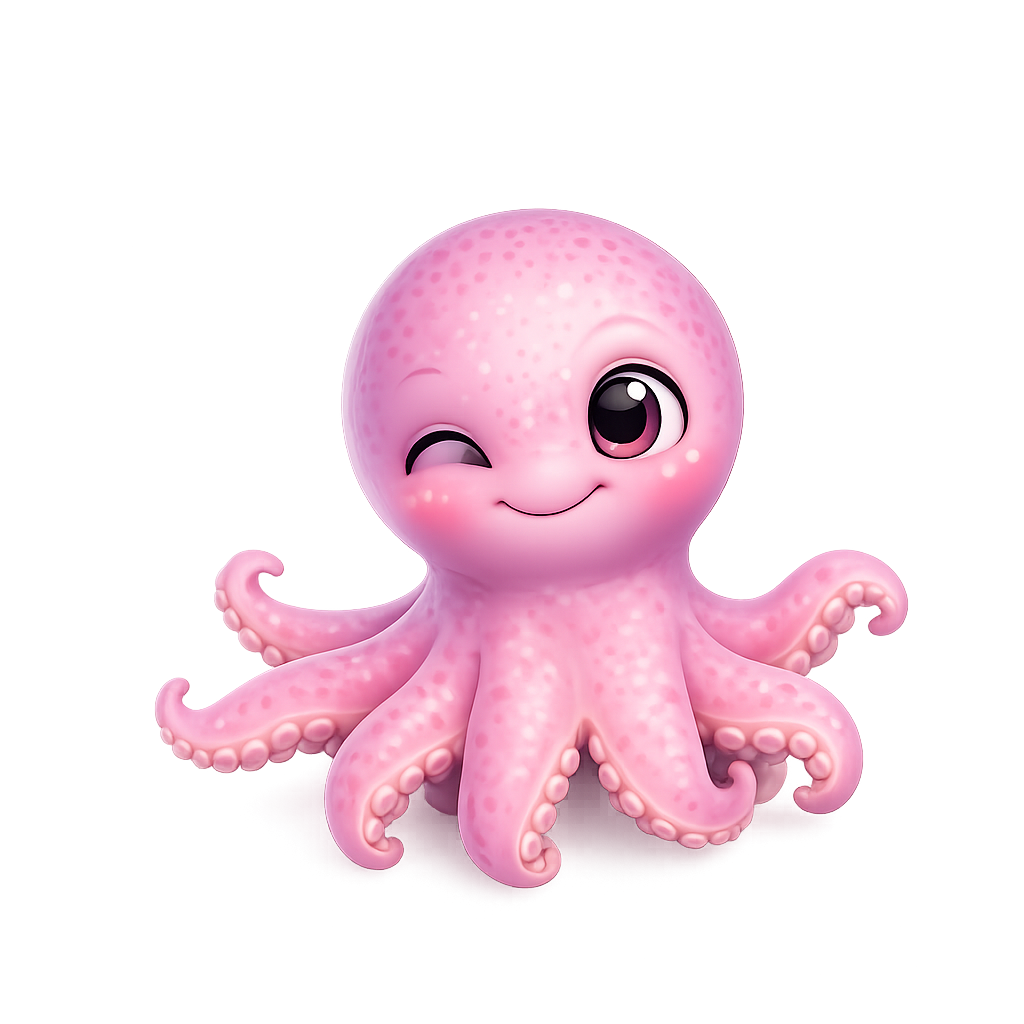
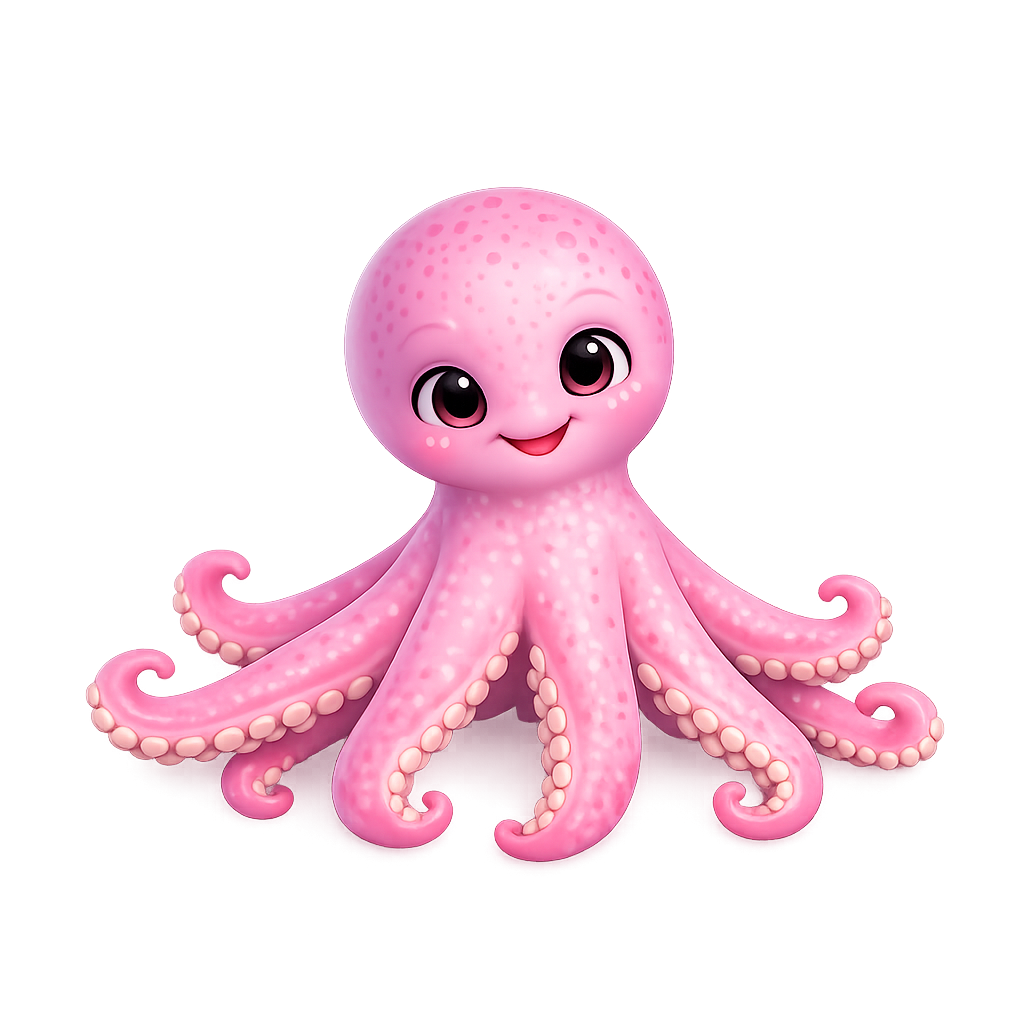
Add octopus as 3rd animal - egg type, purple/magenta, unlocks after dolphin grown + video watched

Changed region(s): [[0.0625, 0.1562, 0.9375, 0.875]]

diff --git a/src/pages/KidsWorld.tsx b/src/pages/KidsWorld.tsx
@@ -10,7 +10,7 @@ interface AnimalStage { name: string; nameZh: string; min: number; img: string; 
 interface Animal {
   id: string; name: string; nameZh: string; emoji: string;
   stages: AnimalStage[];
-  unlockCondition: "default" | "turtle_grown_video_watched";
+  unlockCondition: "default" | "turtle_grown_video_watched" | "dolphin_grown_video_watched";
   collectionBg: string; collectionBorder: string; collectionGlow: string;
   video: string | null; isEggType: boolean;
   accentColor: string; accentGlow: string;
@@ -60,9 +60,30 @@ const ANIMALS: Animal[] = [
       { main: "Look how you've grown!", zh: "你長大了！",           sub: "Now a Young Dolphin!",        subZh: "現在是年輕海豚了！" },
       { main: "Fully grown! Amazing!",  zh: "完全長大了！太棒了！", sub: "You raised a Grown Dolphin!", subZh: "你養大了一隻成年海豚！" },
     ],
-    unlockOverlay: { emoji: "🐬", title: "New Friend!", titleZh: "新朋友來了！", eggLine: "A Dolphin Egg appeared!", eggLineZh: "出現了一顆海豚蛋！", feedLine: "Feed it treats to help it grow!", feedLineZh: "餵牠餅乾讓牠長大！", btnText: "So cool! · 太酷了！🎉", glowColor: "rgba(100,200,255,0.6)", borderColor: "rgba(100,200,255,0.7)", bgGradient: "linear-gradient(135deg,#003d7a,#0077b6,#00b4d8)" },
+    unlockOverlay: { emoji: "🐬", title: "New Friend!", titleZh: "新朋友來了！", eggLine: "A Dolphin appeared!", eggLineZh: "海豚出現了！", feedLine: "Feed it treats to help it grow!", feedLineZh: "餵牠餅乾讓牠長大！", btnText: "So cool! · 太酷了！🎉", glowColor: "rgba(100,200,255,0.6)", borderColor: "rgba(100,200,255,0.7)", bgGradient: "linear-gradient(135deg,#003d7a,#0077b6,#00b4d8)" },
   },
   // ── ADD NEW ANIMALS HERE — one object = one new animal ────────────────────
+  {
+    id: "octopus", name: "Octopus", nameZh: "章魚", emoji: "🐙",
+    stages: [
+      { name: "Egg",   nameZh: "章魚蛋",   min: 0,  img: "/creatures/octopus-egg.png" },
+      { name: "Baby",  nameZh: "小章魚",   min: 15, img: "/creatures/octopus-egg-baby.png" },
+      { name: "Young", nameZh: "年輕章魚", min: 30, img: "/creatures/octopus-young.png" },
+      { name: "Grown", nameZh: "成年章魚", min: 45, img: "/creatures/octopus-grown.png" },
+    ],
+    unlockCondition: "dolphin_grown_video_watched",
+    collectionBg: "#581c87", collectionBorder: "rgba(216,180,254,0.7)", collectionGlow: "rgba(168,85,247,0.5)",
+    video: "/video-adult-octopus.mp4", isEggType: true,
+    accentColor: "#e879f9", accentGlow: "rgba(232,121,249,0.5)",
+    btnColor: "#a855f7", btnGlow: "rgba(168,85,247,0.5)", btn3Color: "#e879f9", btn3Glow: "rgba(232,121,249,0.5)",
+    feedLabel: "octopus", feedLabelZh: "章魚",
+    levelUpMessages: [
+      { main: "Hello little one!",       zh: "你好小寶貝！",         sub: "A Baby Octopus appeared!",       subZh: "小章魚出現了！" },
+      { main: "Growing so fast!",        zh: "長得好快！",           sub: "Now a Young Octopus!",           subZh: "現在是年輕章魚了！" },
+      { main: "Magnificent! Amazing!",   zh: "太壯觀了！太棒了！",   sub: "You raised a Grown Octopus!",    subZh: "你養大了一隻成年章魚！" },
+    ],
+    unlockOverlay: { emoji: "🐙", title: "New Friend!", titleZh: "新朋友來了！", eggLine: "An Octopus Egg appeared!", eggLineZh: "出現了一顆章魚蛋！", feedLine: "Feed it treats to help it grow!", feedLineZh: "餵牠餅乾讓牠長大！", btnText: "So cool! · 太酷了！🎉", glowColor: "rgba(168,85,247,0.6)", borderColor: "rgba(216,180,254,0.7)", bgGradient: "linear-gradient(135deg,#2e1065,#581c87,#7e22ce)" },
+  },
 ];
 // locked placeholder slots (fills collection grid to 6 total)
 const LOCKED_SLOTS = [
@@ -483,7 +504,7 @@ const EarnButtons = ({ navigate, code, studentName, activeAnimal }: { navigate: 
 );
 
 // ── COLLECTION ────────────────────────────────────────────────────────────────
-const OceanCollection = ({ fedTreatsMap, videoWatched, unlockSeenMap, onAnimalClick }: { fedTreatsMap: Record<string,number>; videoWatched: boolean; unlockSeenMap: Record<string,boolean>; onAnimalClick: (id: string) => void }) => {
+const OceanCollection = ({ fedTreatsMap, videoWatched, videoWatchedMap, unlockSeenMap, onAnimalClick }: { fedTreatsMap: Record<string,number>; videoWatched: boolean; videoWatchedMap: Record<string,boolean>; unlockSeenMap: Record<string,boolean>; onAnimalClick: (id: string) => void }) => {
   const lockedCount = 6 - ANIMALS.length;
   return (
     <div style={{ display: "grid", gridTemplateColumns: "repeat(3,1fr)", gap: "0.75rem" }}>
@@ -494,7 +515,11 @@ const OceanCollection = ({ fedTreatsMap, videoWatched, unlockSeenMap, onAnimalCl
         const isUnlocked = (() => {
           if (animal.unlockCondition === "default") return true;
           if (animal.unlockCondition === "turtle_grown_video_watched") {
-            return getAnimalStageIdx(ANIMALS[0], fedTreatsMap["turtle"] ?? 0) === 3 && videoWatched;
+            return getAnimalStageIdx(ANIMALS[0], fedTreatsMap["turtle"] ?? 0) === 3 && (videoWatchedMap["turtle"] ?? false);
+          }
+          if (animal.unlockCondition === "dolphin_grown_video_watched") {
+            const dolphin = ANIMALS.find(a => a.id === "dolphin");
+            return dolphin ? getAnimalStageIdx(dolphin, fedTreatsMap["dolphin"] ?? 0) === 3 && (videoWatchedMap["dolphin"] ?? false) && (unlockSeenMap["dolphin"] ?? false) : false;
           }
           return false;
         })();
@@ -587,7 +612,7 @@ const KidsWorld = () => {
   }
 
   const [jarTreats, setJarTreats] = useState(() => isMaster ? 99 : parseInt(localStorage.getItem(`mpe_jar_${code}_${studentName}`) || "0"));
-  const [fedTreatsState, setFedTreatsState] = useState<Record<string,number>>(() => isMaster ? { turtle: 45 } : { turtle: parseInt(localStorage.getItem(`mpe_fed_${code}_${studentName}`) || "0") });
+  const [fedTreatsState, setFedTreatsState] = useState<Record<string,number>>(() => isMaster ? { turtle: 45, dolphin: 45 } : { turtle: parseInt(localStorage.getItem(`mpe_fed_${code}_${studentName}`) || "0") });
   const [treats, setTreats] = useState(0);
   const [loading, setLoading] = useState(!isMaster);
   const [hearts, setHearts] = useState<{ id: number; x: number; y: number; delay: number }[]>([]);
@@ -605,6 +630,7 @@ const KidsWorld = () => {
   const [showVideo, setShowVideo] = useState(false);
   const [videoButtonSeen, setVideoButtonSeen] = useState(() => localStorage.getItem(`mpe_videoseen_${code}_${studentName}`) === "1");
   const [videoWatchedMap, setVideoWatchedMap] = useState<Record<string,boolean>>(() => {
+    if (isMaster) return { turtle: true };
     const map: Record<string,boolean> = {};
     ANIMALS.forEach(a => {
       const key = a.id === "turtle" ? `mpe_videowatched_${code}_${studentName}` : `mpe_videowatched_${a.id}_${code}_${studentName}`;
@@ -619,7 +645,7 @@ const KidsWorld = () => {
 
   const [videoFadingOut, setVideoFadingOut] = useState(false);
   const [showLookBelow, setShowLookBelow] = useState(false);
-  const closeVideo = () => { setVideoFadingOut(true); setTimeout(() => { setShowVideo(false); setVideoFadingOut(false); if(!unlockSeenMap["dolphin"]) setTimeout(() => setShowLookBelow(true), 300); }, 400); };
+  const closeVideo = () => { setVideoFadingOut(true); setTimeout(() => { setShowVideo(false); setVideoFadingOut(false); if(!unlockSeenMap["dolphin"] || !unlockSeenMap["octopus"]) setTimeout(() => setShowLookBelow(true), 300); }, 400); };
   const [musicOn, setMusicOn] = useState(() => localStorage.getItem("mpe_music") !== "off");
   const [sfxOn, setSfxOn] = useState(() => localStorage.getItem("mpe_sfx") !== "off");
   const [volume, setVolume] = useState(() => parseFloat(localStorage.getItem("mpe_volume") || "0.25"));
@@ -635,9 +661,11 @@ const KidsWorld = () => {
   const ctxRef = useRef<AudioContext | null>(null);
   const prevStageRef = useRef(-1);
   // ── FIX: load previously fired level-ups from localStorage on mount ──
-  const levelUpFiredRef = useRef<Set<number>>(new Set(
-    JSON.parse(localStorage.getItem(`mpe_levelup_${code}_${studentName}`) || "[]")
-  ));
+  const levelUpFiredRef = useRef<Record<string, Set<number>>>(
+    Object.fromEntries(ANIMALS.map(a => [a.id, new Set<number>(
+      JSON.parse(localStorage.getItem(`mpe_levelup_${a.id}_${code}_${studentName}`) || "[]")
+    )]))
+  );
 
   const displayName = (() => {
     if (isMaster) return "Teacher";
@@ -721,9 +749,11 @@ const KidsWorld = () => {
 
   // Level up — fire ONCE per stage transition, never repeat (persisted in localStorage)
   useEffect(() => {
-    if (stageIdx > 0 && stageIdx !== prevStageRef.current && !levelUpFiredRef.current.has(stageIdx)) {
-      levelUpFiredRef.current.add(stageIdx);
-      localStorage.setItem(`mpe_levelup_${code}_${studentName}`, JSON.stringify([...levelUpFiredRef.current]));
+    const animalFired = levelUpFiredRef.current[activeAnimalId] ?? new Set<number>();
+    if (stageIdx > 0 && stageIdx !== prevStageRef.current && !animalFired.has(stageIdx)) {
+      animalFired.add(stageIdx);
+      levelUpFiredRef.current[activeAnimalId] = animalFired;
+      localStorage.setItem(`mpe_levelup_${activeAnimalId}_${code}_${studentName}`, JSON.stringify([...animalFired]));
       setLevelUpStage({ animal: activeAnimal, stageIdx });
       if (!tadaRef.current) tadaRef.current = new Audio("/tada-music.mp3");
       tadaRef.current.currentTime = 0;
@@ -876,7 +906,7 @@ const KidsWorld = () => {
 
       {/* LOOK BELOW POPUP */}
       {showLookBelow && (
-        <div onClick={() => setShowLookBelow(false)} style={{ position: "fixed", inset: 0, zIndex: 600, background: "rgba(0,0,0,0.7)", display: "flex", alignItems: "center", justifyContent: "center", padding: "1rem", animation: "popIn 0.35s ease-out" }}>
+        <div style={{ position: "fixed", inset: 0, zIndex: 600, background: "rgba(0,0,0,0.7)", display: "flex", alignItems: "center", justifyContent: "center", padding: "1rem", animation: "popIn 0.35s ease-out" }}>
           <div onClick={e => e.stopPropagation()} style={{ background: "linear-gradient(135deg,#0c3460,#0077b6)", borderRadius: "2.5rem", padding: "2.5rem 2rem", textAlign: "center", maxWidth: 340, width: "100%", border: "3px solid #fbbf24", boxShadow: "0 0 60px rgba(251,191,36,0.6), 0 20px 60px rgba(0,0,0,0.5)", animation: "popIn 0.4s ease-out" }}>
             <div style={{ fontSize: "3rem", marginBottom: "0.5rem", animation: "bobAnim 1s ease-in-out infinite" }}>👇</div>
             <div style={{ fontFamily: "'Fredoka One',cursive", fontSize: "2rem", color: "#fbbf24", textShadow: "0 0 20px rgba(251,191,36,0.9)", marginBottom: "0.25rem" }}>Look below!</div>
@@ -902,8 +932,7 @@ const KidsWorld = () => {
           setActiveAnimalId(a.id);
         };
         return (
-          <div style={{ position: "fixed", inset: 0, zIndex: 600, background: "rgba(0,10,40,0.92)", display: "flex", alignItems: "center", justifyContent: "center", padding: "1rem", animation: "popIn 0.4s ease-out" }}
-            onClick={dismiss}>
+          <div style={{ position: "fixed", inset: 0, zIndex: 600, background: "rgba(0,10,40,0.92)", display: "flex", alignItems: "center", justifyContent: "center", padding: "1rem", animation: "popIn 0.4s ease-out" }}>
             <div onClick={e => e.stopPropagation()} style={{ position: "relative", zIndex: 10, textAlign: "center", background: ov.bgGradient, borderRadius: "2.5rem", padding: "2.5rem 2rem", maxWidth: 360, width: "100%", border: `3px solid ${ov.borderColor}`, boxShadow: `0 0 80px ${ov.glowColor}, 0 20px 60px rgba(0,0,0,0.5)` }}>
               <div style={{ position: "absolute", inset: -8, borderRadius: "2.8rem", border: `2px solid ${ov.borderColor}`, animation: "goldPulse 1.5s ease-in-out infinite", pointerEvents: "none" }} />
               <div style={{ fontFamily: "'Fredoka One',cursive", fontSize: "2.8rem", marginBottom: "0.25rem" }}>{ov.emoji}</div>
@@ -938,7 +967,7 @@ const KidsWorld = () => {
             </div>
           )}
           <button onClick={() => { setShowVideo(true); if(!videoButtonSeen){ setVideoButtonSeen(true); localStorage.setItem(`mpe_videoseen_${code}_${studentName}`,"1"); }}} style={{ pointerEvents: "all", padding: "1rem 2.5rem", background: "linear-gradient(135deg, #00b4d8, #0077b6)", border: "3px solid rgba(255,255,0,0.9)", borderRadius: "999px", color: "white", fontFamily: "'Fredoka One',cursive", fontSize: "1.5rem", cursor: "pointer", animation: "watchPulse 1.2s ease-in-out infinite", display: "inline-block" }}>
-            🎬 Watch {petName || "Turtley"} Swim! · 看{petName || "Turtley"}游泳！
+            🎬 Watch {petName || activeAnimal.name}! · 看{petName || activeAnimal.nameZh}！
           </button>
         </div>
       )}
@@ -1150,7 +1179,7 @@ const KidsWorld = () => {
               Add to Jar +1
             </button>
             <button onClick={handleFeed} disabled={jarTreats <= 0} style={{ flex: 1, padding: "0.9rem", background: jarTreats > 0 ? "linear-gradient(135deg,#f59e0b,#ef4444)" : "rgba(255,255,255,0.1)", border: "none", borderRadius: "999px", color: "white", fontFamily: "'Fredoka One',cursive", fontSize: "1rem", cursor: jarTreats > 0 ? "pointer" : "not-allowed", boxShadow: jarTreats > 0 ? "0 6px 20px rgba(245,158,11,0.5)" : "none" }}>
-              Feed Turtle
+              Feed {activeAnimal.name}
             </button>
           </div>
         )}
@@ -1170,23 +1199,30 @@ const KidsWorld = () => {
             Ocean Collection 🌊<br />
             <span style={{ fontFamily: "Nunito,sans-serif", fontSize: "1.05rem", opacity: 0.8 }}>海洋收藏！收集所有生物！</span>
           </div>
-          {/* Wiggle arrow pointing at turtle card when videoWatched */}
-          {stageIdx === 3 && videoWatched && !unlockSeenMap["dolphin"] && (
-            <div style={{ display: "flex", justifyContent: "center", marginBottom: "0.75rem" }}>
-              <div style={{ display: "flex", flexDirection: "column", alignItems: "center" }}>
-                <div style={{ fontFamily: "'Fredoka One',cursive", fontSize: "1rem", color: "#fbbf24", textAlign: "center", marginBottom: "0.3rem", animation: "shimmer 1s ease-in-out infinite", textShadow: "0 0 16px rgba(251,191,36,0.9)" }}>
-                  ✨ You unlocked a new friend!<br/>
-                  <span style={{ fontFamily: "Noto Sans TC, sans-serif", fontSize: "0.9rem" }}>你解鎖了新朋友！</span>
-                </div>
-                <div style={{ animation: "arrowWiggle 0.7s ease-in-out infinite" }}>
-                  <svg width="40" height="36" viewBox="0 0 40 40" style={{ filter: "drop-shadow(0 0 10px rgba(251,191,36,1))" }}>
-                    <path d="M20 4 L20 28 M20 28 L10 18 M20 28 L30 18" stroke="#fbbf24" strokeWidth="4" strokeLinecap="round" strokeLinejoin="round" fill="none"/>
-                  </svg>
+          {/* Wiggle arrow pointing at correct collection slot */}
+          {(() => {
+            const showDolphin = (fedTreatsState["turtle"] ?? 0) >= 45 && (videoWatchedMap["turtle"] ?? false) && !unlockSeenMap["dolphin"];
+            const showOctopus = (fedTreatsState["dolphin"] ?? 0) >= 45 && (videoWatchedMap["dolphin"] ?? false) && (unlockSeenMap["dolphin"] ?? false) && !unlockSeenMap["octopus"];
+            if (!showDolphin && !showOctopus) return null;
+            // 3-col grid: col1=16.7%, col2=50%, col3=83.3%
+            const leftPct = showDolphin ? "50%" : "83.3%";
+            return (
+              <div style={{ position: "relative", height: "80px", marginBottom: "0.75rem" }}>
+                <div style={{ position: "absolute", left: leftPct, transform: "translateX(-50%)", display: "flex", flexDirection: "column", alignItems: "center" }}>
+                  <div style={{ fontFamily: "'Fredoka One',cursive", fontSize: "1rem", color: "#fbbf24", textAlign: "center", marginBottom: "0.3rem", animation: "shimmer 1s ease-in-out infinite", textShadow: "0 0 16px rgba(251,191,36,0.9)", whiteSpace: "nowrap" }}>
+                    ✨ You unlocked a new friend!<br/>
+                    <span style={{ fontFamily: "Noto Sans TC, sans-serif", fontSize: "0.9rem" }}>你解鎖了新朋友！</span>
+                  </div>
+                  <div style={{ animation: "arrowWiggle 0.7s ease-in-out infinite" }}>
+                    <svg width="40" height="36" viewBox="0 0 40 40" style={{ filter: "drop-shadow(0 0 10px rgba(251,191,36,1))" }}>
+                      <path d="M20 4 L20 28 M20 28 L10 18 M20 28 L30 18" stroke="#fbbf24" strokeWidth="4" strokeLinecap="round" strokeLinejoin="round" fill="none"/>
+                    </svg>
+                  </div>
                 </div>
               </div>
-            </div>
-          )}
-          <div ref={collectionRef}><OceanCollection fedTreatsMap={fedTreatsState} videoWatched={videoWatched} unlockSeenMap={unlockSeenMap} onAnimalClick={(id) => setShowUnlockFor(id)} /></div>
+            );
+          })()}
+          <div ref={collectionRef}><OceanCollection fedTreatsMap={fedTreatsState} videoWatched={videoWatched} videoWatchedMap={videoWatchedMap} unlockSeenMap={unlockSeenMap} onAnimalClick={(id) => setShowUnlockFor(id)} /></div>
           <div style={{ color: "rgba(255,255,255,0.5)", fontFamily: "Nunito,sans-serif", fontSize: "0.9rem", marginTop: "0.85rem", textAlign: "center" }}>
             More creatures unlocking soon! · 更多生物即將解鎖！
           </div>
@@ -1195,7 +1231,7 @@ const KidsWorld = () => {
 
       {/* VIDEO PLAYER — outside blurred content div so it renders unblurred */}
       {showVideo && (
-        <div onClick={closeVideo} style={{ position: "fixed", inset: 0, zIndex: 999, background: "rgba(0,20,40,0.85)", display: "flex", alignItems: "center", justifyContent: "center", padding: "1rem", opacity: videoFadingOut ? 0 : 1, transition: "opacity 0.4s ease-out" }}>
+        <div style={{ position: "fixed", inset: 0, zIndex: 999, background: "rgba(0,20,40,0.85)", display: "flex", alignItems: "center", justifyContent: "center", padding: "1rem", opacity: videoFadingOut ? 0 : 1, transition: "opacity 0.4s ease-out" }}>
           <div onClick={e => e.stopPropagation()} style={{ position: "relative", maxWidth: 420, width: "100%" }}>
 
             <video autoPlay loop controls